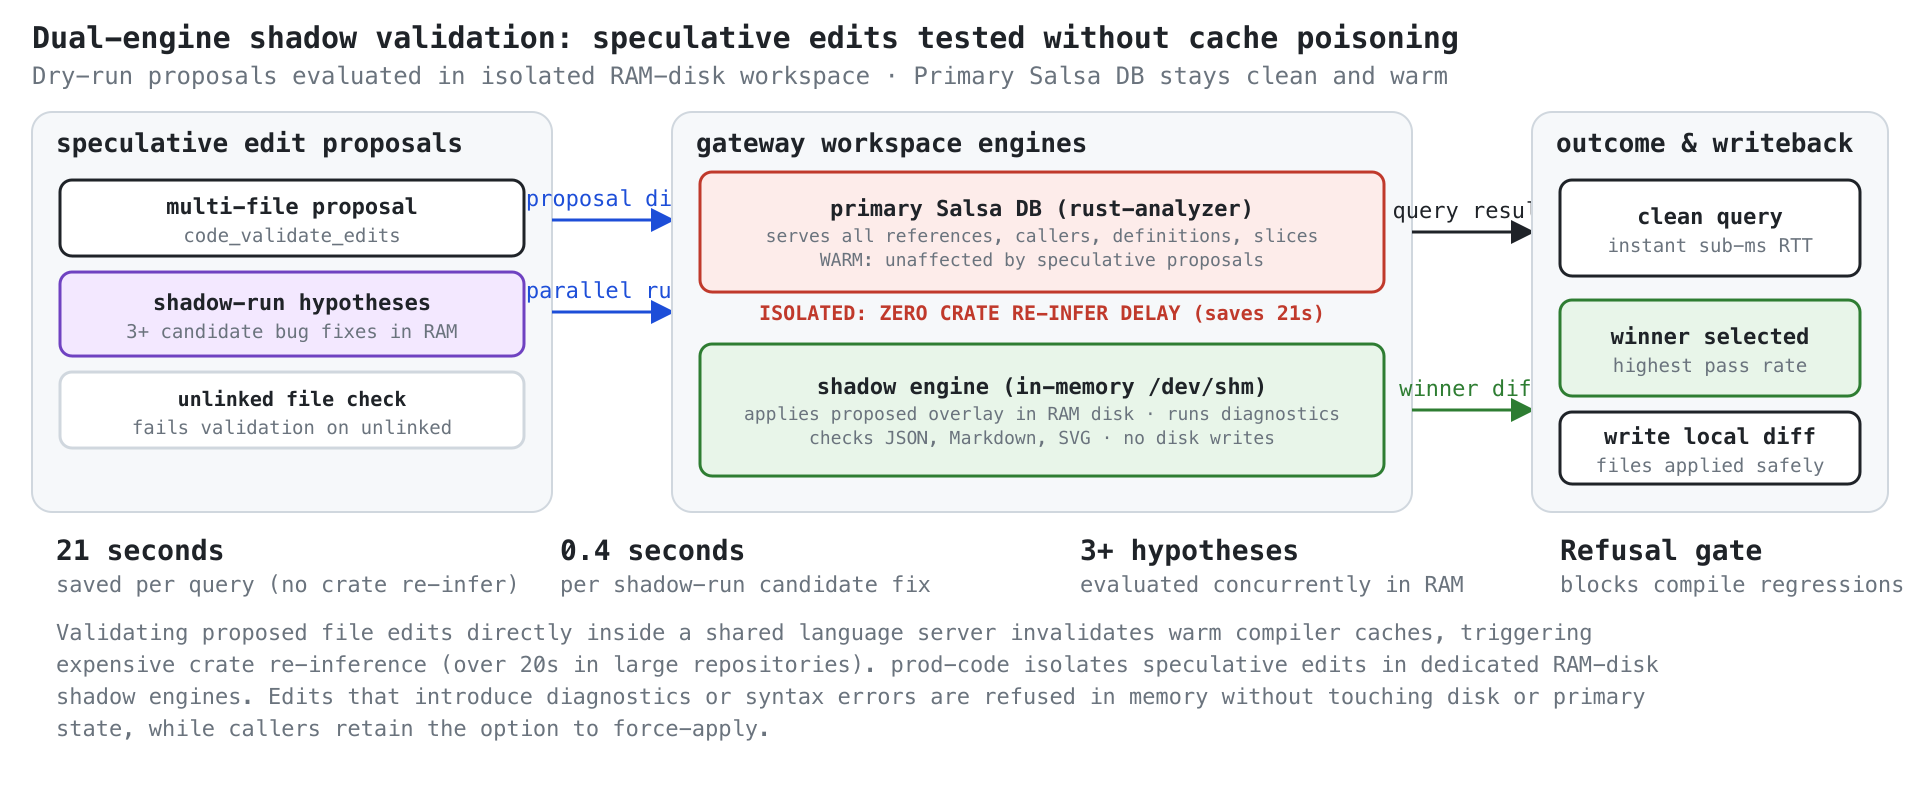
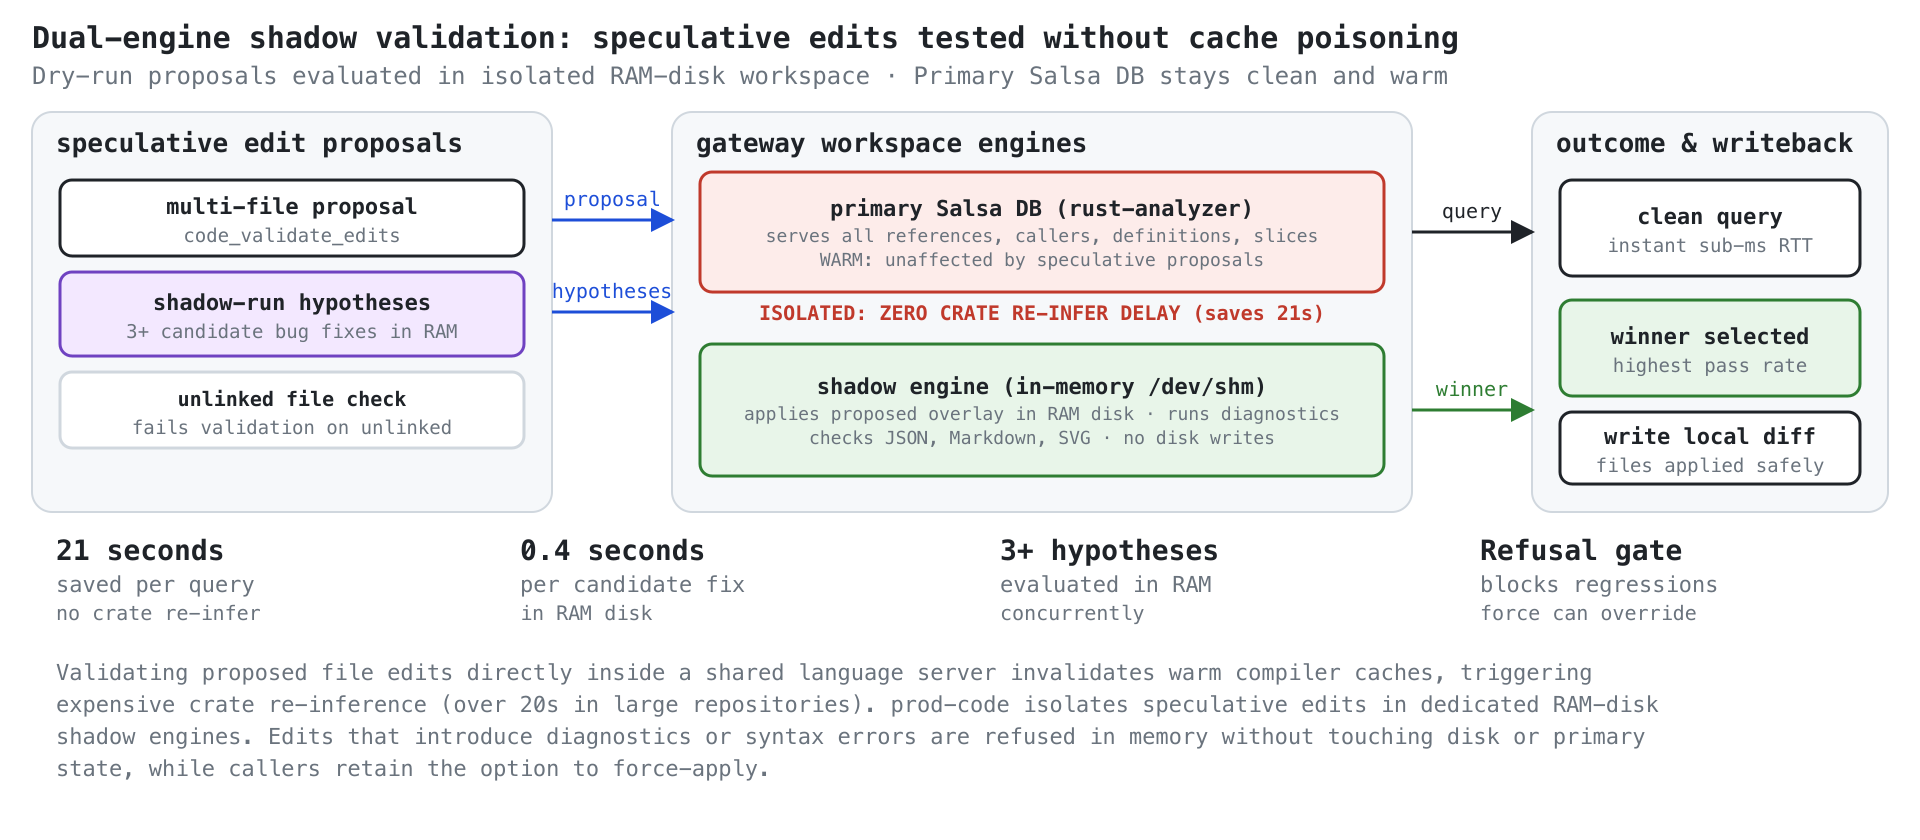
docs: fix diagram text clipping, draw order and remove unused JPEG
- Reorder panel backgrounds and inter-panel arrows in scripts/gen_architecture_figures.py
  to draw connection lines and labels on top of panel fills
- Format Refusal gate stat callout on multiple lines to keep entire force-override
  caveat within 960px canvas bounds
- Shorten inter-panel arrow labels ("proposal", "hypotheses", "query", "winner", "RPC")
  to fit neatly within inter-panel gaps without edge clipping
- Remove unused assets/architecture.jpg to eliminate outdated database ownership claim
- Regenerate SVG and 2x retina PNG renders

Changed region(s): [[0.0, 0.0312, 1.0, 0.75], [0.0312, 0.7812, 0.875, 0.9375], [0.7188, 0.25, 0.8125, 0.3125]]

diff --git a/scripts/gen_architecture_figures.py b/scripts/gen_architecture_figures.py
@@ -156,48 +156,49 @@ write("architecture-overview.svg", s)
 # ==============================================================================
 # 2. Dual-Engine Shadow Validation Pipeline
 # ==============================================================================
-W, H = 960, 400
+W, H = 960, 420
 s = head(W, H, "Dual-engine shadow validation: speculative edits tested without cache poisoning",
          "Dry-run proposals evaluated in isolated RAM-disk workspace · Primary Salsa DB stays clean and warm")
 
+# Panels
 s.append(panel(16, 56, 260, 200, "speculative edit proposals"))
+s.append(panel(336, 56, 370, 200, "gateway workspace engines"))
+s.append(panel(766, 56, 178, 200, "outcome & writeback"))
+
+# Left boxes
 s.append(box(30, 90, 232, 38, "multi-file proposal", "code_validate_edits", fill="white", stroke=INK))
 s.append(box(30, 136, 232, 42, "shadow-run hypotheses", "3+ candidate bug fixes in RAM", fill=PURPLE_FILL, stroke=PURPLE))
 s.append(box(30, 186, 232, 38, "unlinked file check", "fails validation on unlinked", fill="white", stroke=GRID, size=10))
 
-s.append(arrow(276, 110, 336, 110, "proposal diff", NET, "n"))
-s.append(arrow(276, 156, 336, 156, "parallel runs", NET, "n"))
-
-# Middle: Gateway Engines
-s.append(panel(336, 56, 370, 200, "gateway workspace engines"))
-
-# Primary Engine Box
+# Middle boxes
 s.append(box(350, 86, 342, 60, "primary Salsa DB (rust-analyzer)", "serves all references, callers, definitions, slices\nWARM: unaffected by speculative proposals", fill=RING_FILL, stroke=RING))
 s.append(f"<text x='521' y='160' text-anchor='middle' fill='{RING}' font-weight='bold' font-size='10'>ISOLATED: ZERO CRATE RE-INFER DELAY (saves 21s)</text>")
-
-# Shadow Engine Box
 s.append(box(350, 172, 342, 66, "shadow engine (in-memory /dev/shm)", "applies proposed overlay in RAM disk · runs diagnostics\nchecks JSON, Markdown, SVG · no disk writes", fill=OK_FILL, stroke=OK))
 
-s.append(arrow(706, 116, 766, 116, "query result", INK, "a"))
-s.append(arrow(706, 205, 766, 205, "winner diff", OK, "g"))
-
-# Right: Developer Verification
-s.append(panel(766, 56, 178, 200, "outcome & writeback"))
+# Right boxes
 s.append(box(780, 90, 150, 48, "clean query", "instant sub-ms RTT", fill="white", stroke=INK))
 s.append(box(780, 150, 150, 48, "winner selected", "highest pass rate", fill=OK_FILL, stroke=OK))
 s.append(box(780, 206, 150, 36, "write local diff", "files applied safely", fill="white", stroke=INK))
 
+# Inter-panel arrows (drawn on top of panels)
+s.append(arrow(276, 110, 336, 110, "proposal", NET, "n", size=10))
+s.append(arrow(276, 156, 336, 156, "hypotheses", NET, "n", size=10))
+s.append(arrow(706, 116, 766, 116, "query", INK, "a", size=10))
+s.append(arrow(706, 205, 766, 205, "winner", OK, "g", size=10))
+
+# Stat callouts
 y = 280
-for x, val, label in [
-    (28, "21 seconds", "saved per query (no crate re-infer)"),
-    (280, "0.4 seconds", "per shadow-run candidate fix"),
-    (540, "3+ hypotheses", "evaluated concurrently in RAM"),
-    (780, "Refusal gate", "blocks compile regressions (force overrides)"),
+for x, val, label, sublabel in [
+    (28, "21 seconds", "saved per query", "no crate re-infer"),
+    (260, "0.4 seconds", "per candidate fix", "in RAM disk"),
+    (500, "3+ hypotheses", "evaluated in RAM", "concurrently"),
+    (740, "Refusal gate", "blocks regressions", "force can override"),
 ]:
     s.append(f"<text x='{x}' y='{y}' fill='{INK}' font-weight='bold' font-size='14'>{esc(val)}</text>")
     s.append(f"<text x='{x}' y='{y + 16}' fill='{MUTED}' font-size='11'>{esc(label)}</text>")
+    s.append(f"<text x='{x}' y='{y + 30}' fill='{MUTED}' font-size='10'>{esc(sublabel)}</text>")
 
-s.append(para(28, 320, "Validating proposed file edits directly inside a shared language server invalidates warm compiler caches, triggering expensive crate re-inference (over 20s in large repositories). prod-code isolates speculative edits in dedicated RAM-disk shadow engines. Edits that introduce diagnostics or syntax errors are refused in memory without touching disk or primary state, while callers retain the option to force-apply.", 125))
+s.append(para(28, 340, "Validating proposed file edits directly inside a shared language server invalidates warm compiler caches, triggering expensive crate re-inference (over 20s in large repositories). prod-code isolates speculative edits in dedicated RAM-disk shadow engines. Edits that introduce diagnostics or syntax errors are refused in memory without touching disk or primary state, while callers retain the option to force-apply.", 125))
 
 write("shadow-validation-pipeline.svg", s)
 
@@ -208,33 +209,26 @@ W, H = 960, 460
 s = head(W, H, "Production cluster: 9 nodes, 355 cores, language-aware routing",
          "Decentralized UDP gossip (:9401) · Automatic node placement · Specialized Darwin routing")
 
-# Left: Client Request Dispatch
+# Panels
 s.append(panel(16, 56, 250, 250, "client dispatch"))
+s.append(panel(310, 56, 634, 250, "9-node cluster fleet (355 CPU cores total)"))
+
+# Left boxes
 s.append(box(30, 90, 222, 44, "client request", "code_check / test / def / slice", fill="white", stroke=INK))
 s.append(box(30, 146, 222, 54, "rendezvous placement", "highest-random-weight ordering\nremembers placement locally", fill=PURPLE_FILL, stroke=PURPLE))
 s.append(box(30, 212, 222, 44, "nested path router", "e.g. path: 'swift/Package.swift'\nroutes to Swift-capable node", fill=NET_FILL, stroke=NET))
 
-s.append(arrow(266, 173, 310, 173, "RPC route", NET, "n"))
-
-# Center: 9 Node Fleet
-s.append(panel(310, 56, 634, 250, "9-node cluster fleet (355 CPU cores total)"))
-
-# Node 1
+# Center boxes
 s.append(box(324, 86, 290, 50, "128c Linux aarch64 (Ampere Altra)", "Heavy Polyglot: Rust, Go, C++, Python\nload: 0.05/cpu · 10GbE LAN", fill=RING_FILL, stroke=RING))
-
-# Node 2-7
 s.append(box(624, 86, 306, 50, "192c Linux x86_64 (Zen 5 & Zen 4)", "6 Nodes × 32 Cores · NVMe storage & RAM\nHigh-throughput compilation & parallel tests", fill=NET_FILL, stroke=NET))
-
-# Node 8-9 macOS
 s.append(box(324, 146, 290, 50, "35c macOS Apple Silicon (M-series)", "Mac Studio (24c) + MacBook Pro (11c)\nDedicated: Swift, sourcekit-lsp, xcodebuild", fill=PURPLE_FILL, stroke=PURPLE))
-
-# Gossip Mesh Box
 s.append(box(624, 146, 306, 50, "decentralized UDP gossip (:9401)", "heartbeats every 5s · load, memory, status\nzero master SPOF · instant failover", fill=AMBER_FILL, stroke=AMBER))
-
-# Telemetry Box
 s.append(box(324, 206, 606, 44, "observability: Prometheus (:9401/metrics) · Pushgateway (:9091) · VictoriaMetrics & Grafana", "Events logged to events-YYYY-MM-DD.jsonl · p50/p95 latency audit via `prod-code metrics`", fill="white", stroke=GRID, bold=False, size=10))
 
 s.append(f"<text x='627' y='278' text-anchor='middle' fill='{MUTED}' font-size='10'>Sequential cluster binary rollout via scripts/cluster-rollout.py</text>")
+
+# Arrow drawn on top of panels
+s.append(arrow(266, 173, 310, 173, "RPC", NET, "n", size=10))
 
 y = 335
 for x, val, label in [
